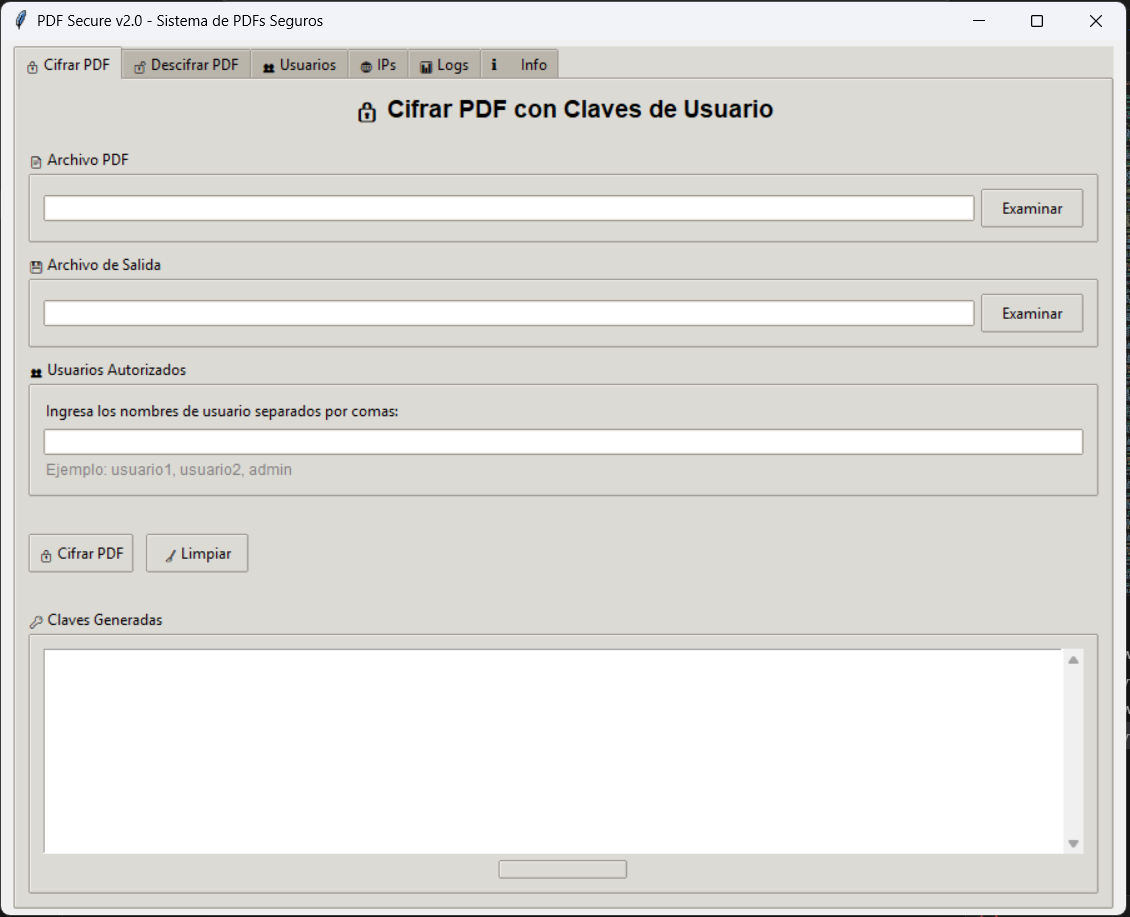
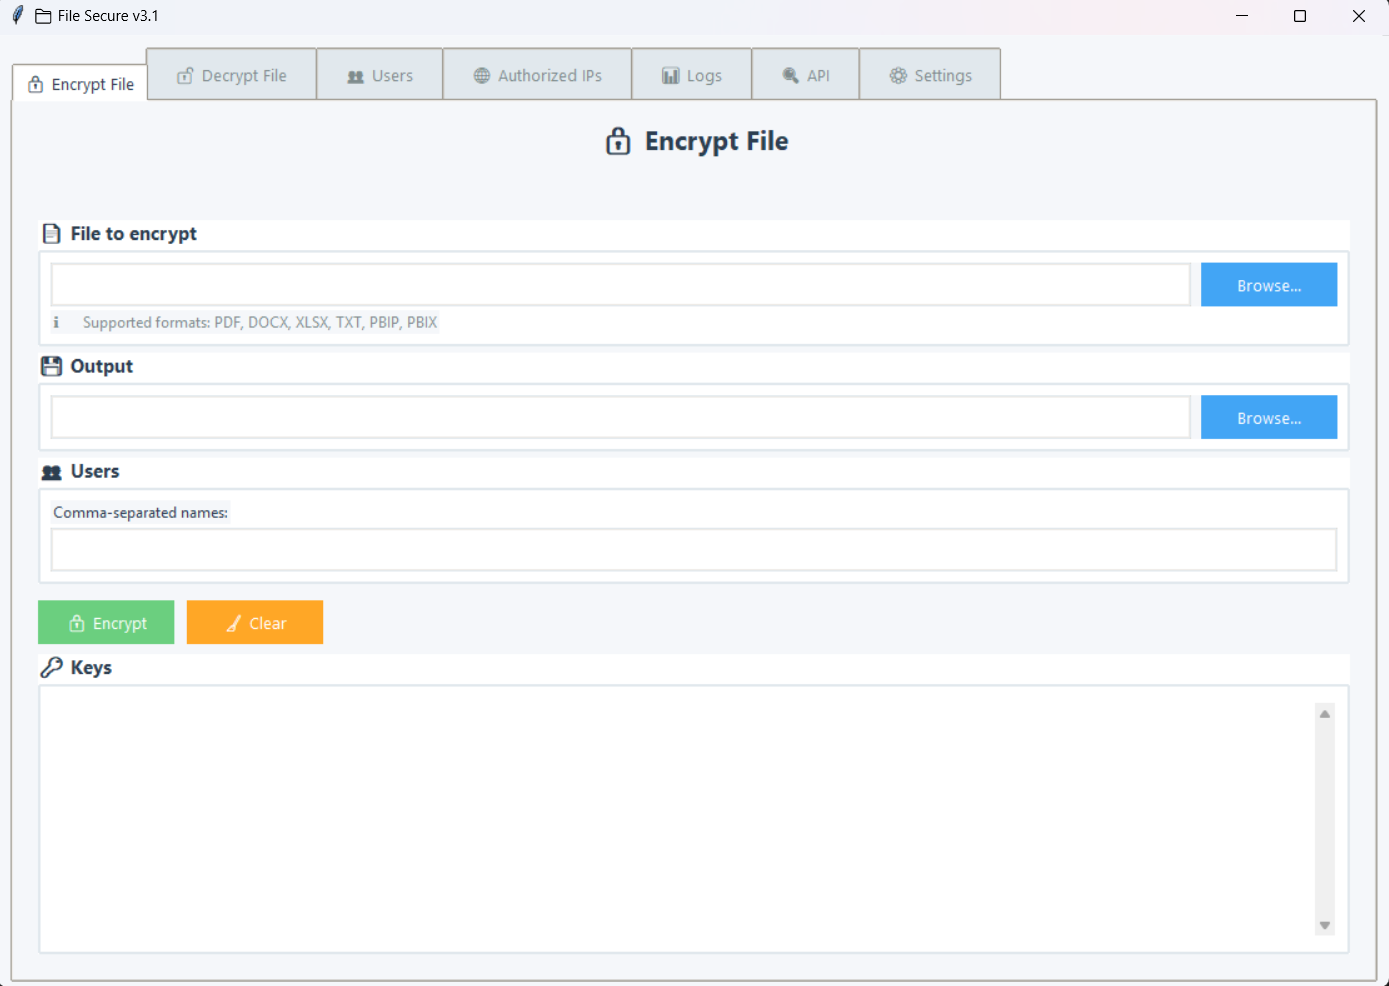
Algunos cambios

diff --git a/app/app_gui.py b/app/app_gui.py
@@ -42,7 +42,7 @@ class PDFSecureGUI:
 
         # Crear ventana PRIMERO
         self.root = tk.Tk()
-        self.root.title("📁 File Secure v3.1 - Modern Edition")
+        self.root.title("📁 File Secure v3.1")
         self.root.geometry("1100x750")
         self.root.minsize(1000, 650)
 
